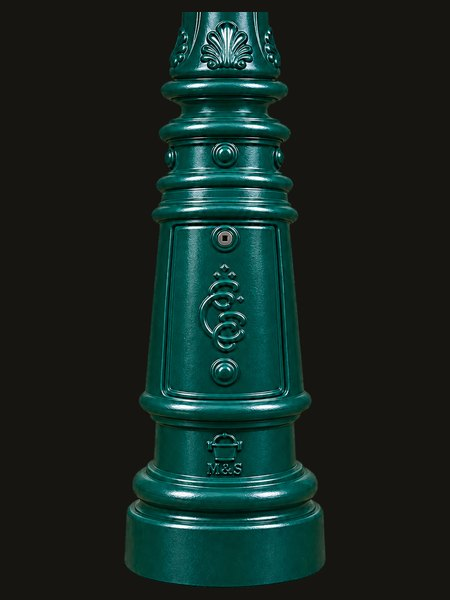
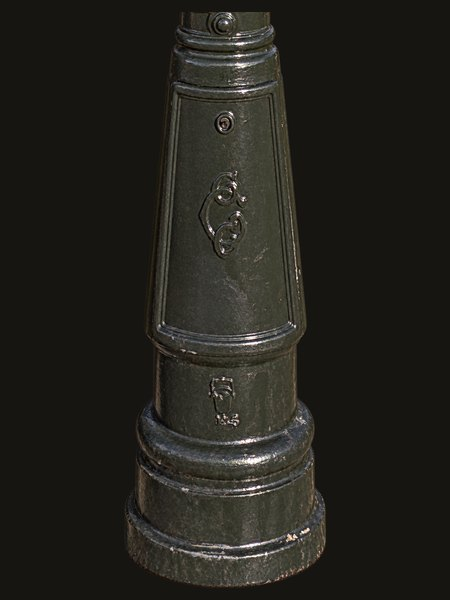
Remove A1-alt design type; new A1 thumbnail

diff --git a/index.html b/index.html
@@ -152,7 +152,7 @@ a{color:var(--accent)}
     <div class="small">
       <p>Each point is one column. Where the asset number is reasonably secure, the point sits at the position in Kent County Council's streetlight inventory; otherwise it sits where the phone's GPS placed the photo.</p>
       <p><b>Confirmed</b>: asset number painted on the column, read in full. <b>Strong</b>: partly legible, only one asset fits. <b>Probable</b>: partial or hand-painted number, or the column's place in a numbered run. <b>Likely</b>: nearest KCC column by GPS (tested at 93% right). <b>Uncertain</b>: several possibilities; the first listed is the best guess. <b>No match</b>: no KCC column matched. The riverside path columns off Westwood Drive and Ambleside Place belong to Canterbury City Council (not adopted by KCC); their numbers are the City Council's asset references and are shown with a CCC prefix.</p>
-      <p>Variant codes: A1 Biggleston standard (CCC cypher on the door); A1-alt an altered A1; A2 fluted drum without cypher; A4 small-door pattern (short framed door, reeding all the way round the base); B1/B2 DW Windsor reproductions; X-stub cut-down remains; X-mod modern replacement.</p>
+      <p>Variant codes: A1 Biggleston standard (CCC cypher on the door); A2 fluted drum without cypher; A4 small-door pattern (short framed door, reeding all the way round the base); B1/B2 DW Windsor reproductions; X-stub cut-down remains; X-mod modern replacement.</p>
       <p><b>Visual condition</b> is an assessment of what can be seen in the survey photographs (2026); it is not a structural or electrical inspection. It covers overall visual condition, paintwork, external structure (e.g. a missing ladder-bar acorn counts as damaged), lantern, access door and colour. Parts not shown in any photo are marked "Not seen".</p>
       <p>Asset numbers refer to KCC's inventory extract of 26 September 2026 and may be wrong. Number plates and faces in the photos have been blurred.</p>
       <p><a href="data/columns.geojson" download>Download the data (GeoJSON)</a></p>
@@ -168,7 +168,6 @@ a{color:var(--accent)}
 <script>
 const VARS={
  'A1':{name:'A1 Biggleston standard',c:'#1f7a4d'},
- 'A1-alt':{name:'A1-alt Altered A1',c:'#e08a1e'},
  'A2':{name:'A2 Fluted drum (no cypher)',c:'#7b3fb5'},
  'A4':{name:'A4 Small-door',c:'#c2185b'},
  'B1':{name:'B1 DW Windsor swan-neck',c:'#2a78d6'},

diff --git a/scripts/build_geojson.py b/scripts/build_geojson.py
@@ -17,7 +17,7 @@ ROOT = Path(__file__).resolve().parent.parent
 COLS = ROOT / 'data' / 'columns'
 KCC = ROOT / 'data' / 'kcc.json'
 
-VARIANTS = {'A1', 'A1-alt', 'A2', 'A3', 'A4', 'B1', 'B2', 'C', 'X-stub', 'X-mod', 'U'}
+VARIANTS = {'A1', 'A2', 'A3', 'A4', 'B1', 'B2', 'C', 'X-stub', 'X-mod', 'U'}
 CONF_ORDER = ['Confirmed', 'Strong', 'Probable', 'Likely', 'Uncertain', 'No match']
 ASSET_OK = {'Confirmed', 'Strong', 'Probable', 'Likely'}   # secure enough to sit at the KCC position
 COND = {
